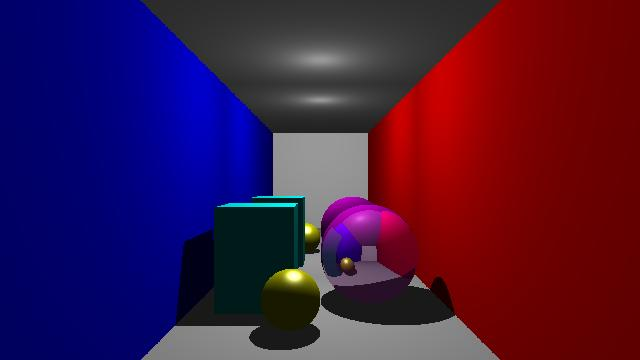
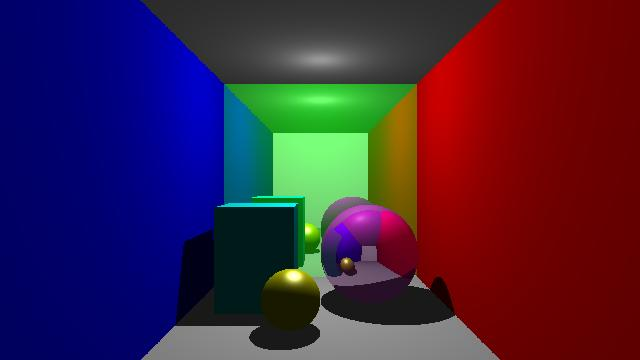
Change wall color

Changed region(s): [[0.3438, 0.2139, 0.6562, 0.7944]]

diff --git a/main.py b/main.py
@@ -30,7 +30,7 @@ def build_scene():
     left_wall_material = Material(Color.red(0.1), Color.red(0.7), walls_specular_color, walls_shineness)
     left_wall = Plane(np.array([-5.0, 0.0, 0.0]), np.array([1.0, 0.0, 0.0]), left_wall_material)
 
-    back_wall_material = Material(Color.gray(0.0), Color.gray(0.0), walls_specular_color, walls_shineness, 1.0)
+    back_wall_material = Material(Color.green(0.1), Color.green(0.5), walls_specular_color, walls_shineness, 0.8)
     back_wall = Plane(np.array([0.0, 0.0, 10.0]), np.array([0.0, 0.0, -1.0]), back_wall_material)
     roof = Plane(np.array([0.0, 10.0, 0.0]), np.array([0.0, -1.0, 0.0]), floor_material)
 
